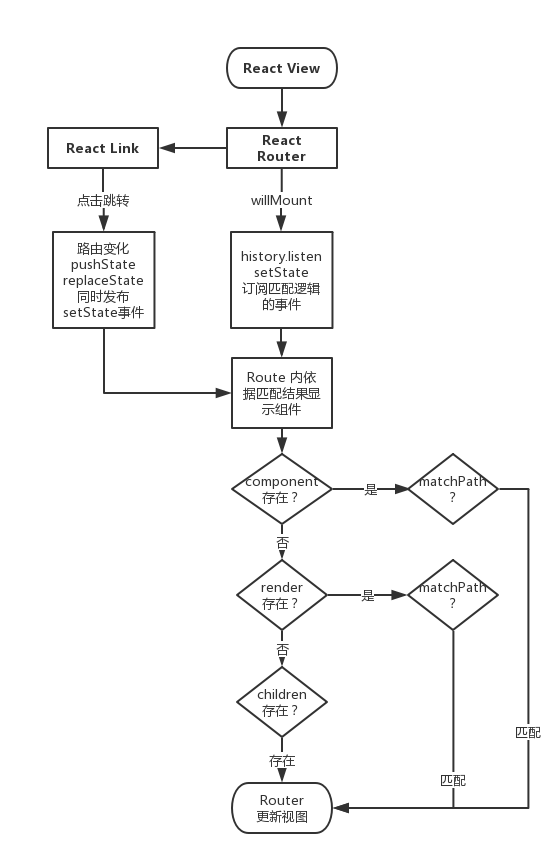
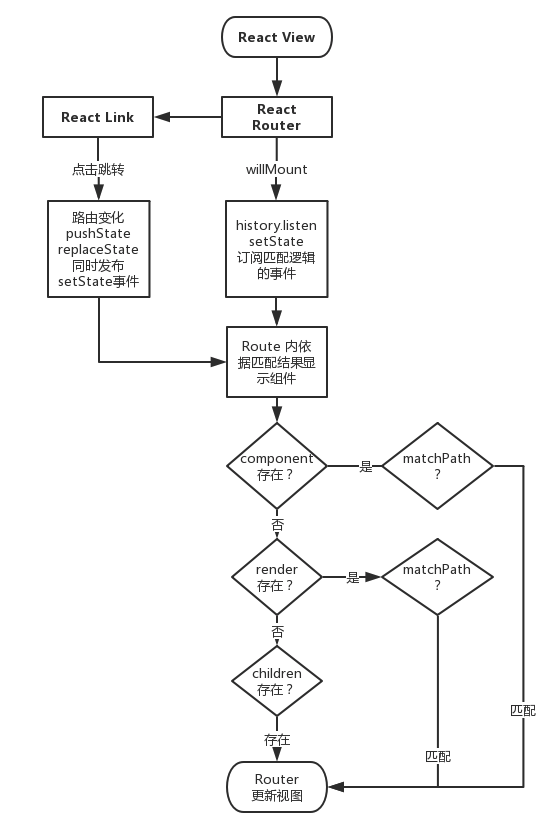
:memo: react-router 文章更新

Changed region(s): [[0.0617, 0.0, 0.9873, 0.9917]]

diff --git a/source/_posts/understanding-react-router.md b/source/_posts/understanding-react-router.md
@@ -1,5 +1,5 @@
 ---
-title: 深入浅出 react-router 原理
+title: 浅谈 react-router 实现原理
 date: 2019-01-03 21:59:22
 tags: React-Router
 categories: React
@@ -25,23 +25,23 @@ categories: React
   - [Switch](#Switch)
   - [withRouter](#withRouter)
 - [react-router与react-router-dom](#react-router与react-router-dom)
-- [遗留的坑](#遗留的坑)
 - [小结](#小结)
+- [遗留的坑](#遗留的坑)
 - [参考](#参考)
 
 ### 引子
 
 * 如上所说，其实在 `history` 与 `react-router` 之间，核心就差了视图如何变化的逻辑部分。
-* 在了解到内部原理之前，这张图是这样的。
+* 在了解到内部原理之前，我理解的流程图是这样的。
 
 {% asset_img react-router.png %}
 
-* 接下来我们来慢慢找出这剩余的部分。
+* 接下来我们来慢慢找出这剩余的部分。然后来看看和最初的印象有什么不同。
 * 注意：这里的所有代码均基于 [`react-router`](https://github.com/ReactTraining/react-router/tree/v4.2.2) 的 v4+ 版本。
 
 ### 组件
 
-* 最初的想法是查看调用栈来观察路由和视图的变化关系。于是写了一个组件，点击事件调用 `replaceState` 方法来手动更新浏览器地址，但是却发现，不会有什么变化。其实这符合预期，这个方法本身就只会更新地址，而不会更新页面。
+* 我最初的想法是查看调用栈来观察路由和视图的变化关系。于是写了一个组件，点击事件调用 `replaceState` 方法来手动更新浏览器地址，但是却发现，不会有什么变化。其实这符合预期，这个方法本身就只会更新地址，而不会更新页面，不会让页面重新加载。
 * 因此，让我们还是从组件入手。
 
 #### [Link](https://github.com/ReactTraining/react-router/blob/v4.2.2/packages/react-router-dom/modules/Link.js)
@@ -131,7 +131,7 @@ categories: React
   * [`<StaticRouter>`](./StaticRouter.md)
   * `BrowserRouter` 是在现代浏览器里使用较多的组件，它在支持 `HTML5` 的 `history API` 的地方可以使用。通过独立的包 `react-router-dom` 提供。做的事情类似，只是使用方式略有不同，这里不再赘述。
   * [**这里是具体的文档**](https://github.com/ReactTraining/react-router/blob/v4.2.2/packages/react-router/docs/api/Router.md)
-  <span></span>
+<span></span>
 
 * 通常情况下，`Router` 作为父组件，包裹着 `Route` 和 `Switch` 等组件。
 * 观察它的源码。它本质上也是 `React` 组件。在渲染的时候，注册监听了事件。下文细说。
@@ -233,7 +233,7 @@ categories: React
 
 <span></span>
 
-* **`children`**: 一个函数，和 `render` 类似。但它在任何情况下，只要传入值就会渲染。它接收的 `props` 和其他方式相同，除了在不匹配的情况下，`match` 的值为 `null` 这点不同。可用于一些固定显示在页面的组件，然后通过 `match` 的值来控制样式。
+* **`children`**: 一个函数，和 `render` 类似。但它在任何情况下，只要传入值就会渲染。它接收的 `props` 和其他方式相同，除了在不匹配的情况下，`match` 的值为 `null` 这点不同。它的业务场景，可能是用于一些固定显示在页面的组件，然后通过 `match` 的值来控制样式。
 
   ```javascript
   import matchPath from './matchPath'
@@ -388,7 +388,7 @@ categories: React
 
 * `matchPath` 通过返回一个对象，来确定路由是否匹配。(官方文档有关于这个对象的介绍[**match**](https://github.com/ReactTraining/react-router/blob/v4.2.2/packages/react-router/docs/api/match.md))如果匹配，则返回一个包含 `path`, `url`, `isExact`, `params` 等属性的对象。否则，则返回 `null`.
 * 判断的主要逻辑是通过正则。
-* 引入了外部的独立的库 `path-to-regexp` 来将地址转化成正则。
+* 引入了外部的独立的库 [**`path-to-regexp`**](https://github.com/pillarjs/path-to-regexp) 来将地址转化成正则。
   * `compilePath` 方法里： `const re = pathToRegexp(pattern, keys, options)`
   * `const { re, keys } = compilePath(path, { end: exact, strict, sensitive })`
   * `const match = re.exec(pathname)`
@@ -475,18 +475,12 @@ categories: React
 * 目前在项目中我还没有用到它，等用到的时候，再来补充下具体的使用场景。
 * [**这里是文档**](https://github.com/ReactTraining/react-router/blob/v4.2.2/packages/react-router/docs/api/withRouter.md?1546862742594)
 
-#### react-router与react-router-dom
+#### `react-router`与`react-router-dom`
 
 * 好了，现在来补充这两个库的不同。
 * `react-router` 是一个底层的库，任何其他的基于 `React` 的路由库都基于它。但是在实际应用中，我们可能要对不同的场景做一些细分，以便更好地使用它们。
 * 于是，就有了为现代浏览器提供的 `react-router-dom`. 观察代码可以发现，它的核心组件，例如 `Route`、`Switch`、`withRouter` 都是从 `react-router` 直接引入的。
 * 除此之外，自然还有在 `React-Native` 中使用的 `react-router-native`, 以及结合 `redux` 使用的 `react-router-redux` 等等。
-
-### 遗漏的坑
-
-* 遗留两个 TODO 待完成。
-* `react-router` 在 `node` 中的应用。
-* `path-to-regexp` 的原理及为何使用缓存。
 
 ### 小结
 
@@ -497,6 +491,14 @@ categories: React
 * 下面是一张调用栈的图，或许可以更直观地展示调用了哪些方法调用以及他们的执行顺序。
 
 {% asset_img react-router-stack.png %}
+
+### 遗漏的坑
+
+* 到此，相关的主要的逻辑就解释完毕了。
+* 以下是遗留的几个待完成的 TODO. 可能会马上补上也可能需要点时间，但最终，我会补上的。
+* `react-router` 或 `history` 在 `node` 中的应用。
+* [**`path-to-regexp`**](https://github.com/pillarjs/path-to-regexp) 的原理及为何使用缓存。
+* `popstate` 和 `hashchange` 最后到底在哪些地方进行了调用和应用。
 
 ### 参考
 
